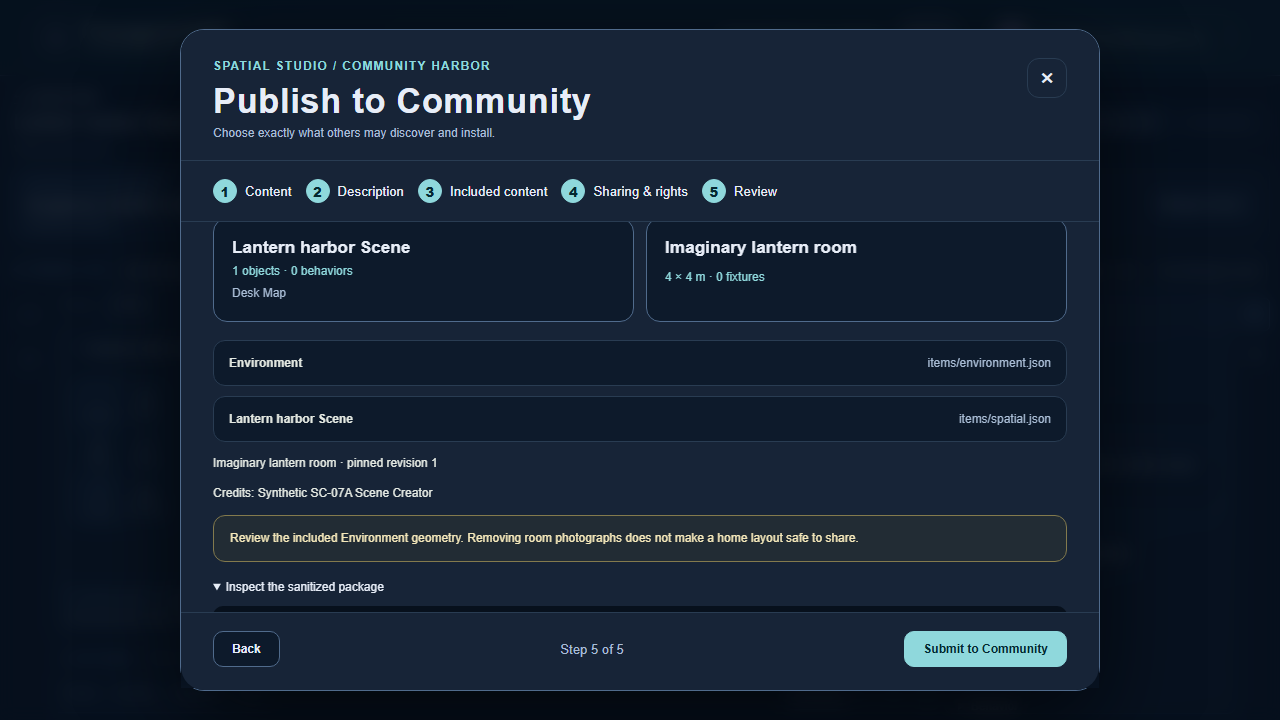
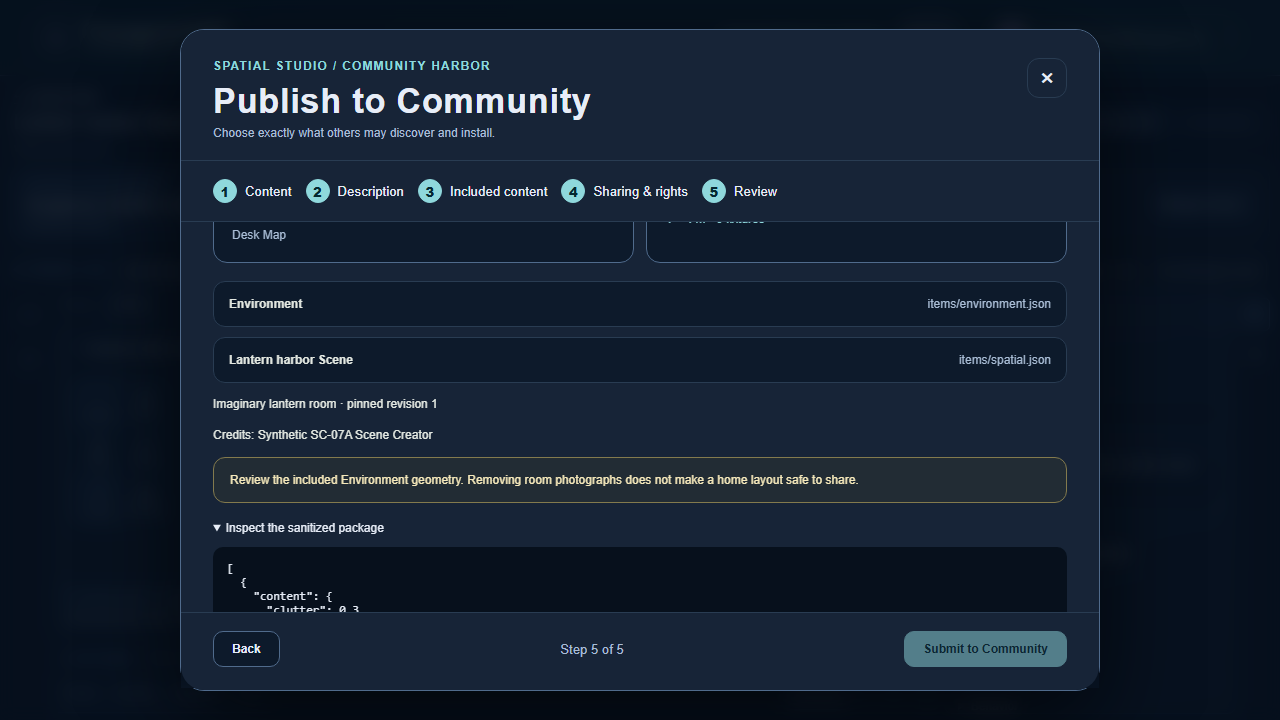
Record SC-07A mobile journey and independent local review

diff --git a/Development_Docs/Projects/Project_Parallax/SC_07A_Direct_Spatial_Community_Publishing.md b/Development_Docs/Projects/Project_Parallax/SC_07A_Direct_Spatial_Community_Publishing.md
@@ -12,7 +12,7 @@ SC-07A connects saved Creator-owned Spatial Studio content to Harborlight listin
 
 ## Creator journey
 
-Spatial Studio exposes one **Publish to Community** workflow from a saved personal item, SC-00C Library details and context actions, Scene Manager and an owned Environment. A source with a known redistribution or privacy limit instead shows **Review publishing limits** and the same workflow explains it before authoritative server review; it is not presented as ready to publish. The guided dialog identifies the exact saved revision, asks for title, description, tags, license, credits and rights acknowledgment, resolves included content on the server, then shows the sanitized package before an explicit submit. A prior listing for the same source can be selected to submit a new immutable release. Saving a draft or creating a Parallax version does not publish it.
+Spatial Studio exposes one **Publish to Community** workflow from a saved personal item, SC-00C Library details and context actions, Scene Manager and an owned Environment. A source with a known redistribution or privacy limit instead shows **Review publishing limits** and the same workflow explains it before authoritative server review; it is not presented as ready to publish. The guided dialog identifies the exact saved revision, asks for title, description, tags, license, credits and rights acknowledgment, resolves included content on the server, then shows the sanitized package before an explicit submit. Its final review puts the immutable-release and moderation consequence above the package preview and requires a separate acknowledgment of the included content, credits, warnings and outcome. Keyboard focus wraps inside the modal. A prior listing for the same source can be selected to submit a new immutable release. Saving a draft or creating a Parallax version does not publish it.
 
 A successful submit creates a Harborlight listing and release in `READY_FOR_REVIEW` or `UPDATE_PENDING`. The result says that moderation is next. An exact retry returns that same release after a lost response; a changed update waits for the pending review to finish. The listing link is usable after the separate moderation authority publishes the release. The Community detail page then offers an exact-release installation review. Installation creates a pinned read-only Spatial Library item and, for a Scene, a pinned local Environment dependency. An editable derivative requires a deliberate separate copy; installed content cannot be republished as Creator-owned source without verified redistribution lineage.
 
@@ -26,8 +26,8 @@ The package uses Harborlight's manifest, checksums and scanner contract. License
 
 ## Validation boundary
 
-Focused package and isolated SQLite integration tests cover private save without publication, preflight, license and dependency rejection, private source-label exclusion, immutable release payloads, Scene and owned Environment packaging, pending moderation, approved exact-release installation, verified-installation review eligibility, stable installation retries and update releases. The browser journeys use a production build, owned loopback server and synthetic accounts. They passed direct Studio publishing, desktop/mobile package review, Escape focus restoration, Community listing, exact-release installation, verified review and read-only Studio return. A known unlicensed physical model displayed **Review publishing limits** instead of **Publish to Community**; server review then refused it on mobile, created no listing and preserved the saved source after reload. A saved Scene journey reviewed and submitted its pinned synthetic Environment as a separate package item; the private photo source label was absent. The refusal is focused and scrolled into view. The direct database transition to `PUBLISHED` is a test fixture for the post-moderation journey, not evidence that moderation approved a real release.
+Focused package and isolated SQLite integration tests cover private save without publication, preflight, license and dependency rejection, private source-label exclusion, immutable release payloads, Scene and owned Environment packaging, pending moderation, approved exact-release installation, verified-installation review eligibility, stable installation retries and update releases. The browser journeys use a production build, owned loopback server and synthetic accounts. They passed direct Studio publishing, all five mobile wizard stages, package JSON keyboard scrolling, forward and reverse Tab containment, Escape focus restoration, Community listing, mobile exact-release installation, verified review and read-only Studio return. The installed Studio status now identifies the release rather than calling it a working draft. A known unlicensed physical model displayed **Review publishing limits** instead of **Publish to Community**; server review then refused it on mobile, created no listing and preserved the saved source after reload. A saved Scene journey reviewed and submitted its pinned synthetic Environment as a separate package item; the private photo source label was absent. The refusal is focused and scrolled into view. The direct database transition to `PUBLISHED` is a test fixture for the post-moderation journey, not evidence that moderation approved a real release.
 
-The [Creator guide](Spatial_Studio_Guide.md) gives the owner-review route. The [local SC-07A run receipt](evidence/sc-07a/20261015-local/run.json) binds the final three passing browser journeys and fourteen captures to candidate source `badeecac`, after integrating SC-00C head `4f658431`. The captures include the [known-limit review](evidence/sc-07a/20261015-local/sc07a-known-limit-desktop.png), [Scene and Environment package](evidence/sc-07a/20261015-local/sc07a-scene-environment-review-desktop.png), [pending-update choice](evidence/sc-07a/20261015-local/sc07a-pending-update-desktop.png) and [focused mobile rights refusal](evidence/sc-07a/20261015-local/sc07a-rights-failure-mobile.png). SC-00C's lossless Environment bridge and its protected acceptance remain independently owned. Independent product experience review, protected Sounding Line and landed-source smoke remain open before claiming those tiers.
+The [Creator guide](Spatial_Studio_Guide.md) gives the owner-review route. The [local SC-07A run receipt](evidence/sc-07a/20261015-local/run.json) binds the final three passing browser journeys and twenty-one captures to candidate source `5ce163b8`, after integrating SC-00C head `4f658431`. The captures include the [known-limit review](evidence/sc-07a/20261015-local/sc07a-known-limit-desktop.png), [mobile final review](evidence/sc-07a/20261015-local/sc07a-package-review-mobile.png), [mobile installation review](evidence/sc-07a/20261015-local/sc07a-installed-review-mobile.png), [mobile installed Studio](evidence/sc-07a/20261015-local/sc07a-installed-library-mobile.png), [Scene and Environment package](evidence/sc-07a/20261015-local/sc07a-scene-environment-review-desktop.png), [pending-update choice](evidence/sc-07a/20261015-local/sc07a-pending-update-desktop.png) and [focused mobile rights refusal](evidence/sc-07a/20261015-local/sc07a-rights-failure-mobile.png). A [separate local visual review](evidence/sc-07a/20261015-local/review.md) records the repaired findings and remaining proof limits. SC-00C's lossless Environment bridge and its protected acceptance remain independently owned. Protected independent product experience review, Sounding Line and landed-source smoke remain open before claiming those tiers.
 
 Feature Catalog: the candidate is not promoted as a completed mainline capability while protected integration and product experience evidence remain open.

diff --git a/Development_Docs/Projects/Project_Parallax/evidence/sc-07a/20261015-local/review.md b/Development_Docs/Projects/Project_Parallax/evidence/sc-07a/20261015-local/review.md
@@ -1,0 +1,25 @@
+---
+title: SC-07A local independent visual review
+audience: product-engineering
+status: local-review
+canonical_for: sc-07a-local-visual-review
+last_reviewed: 2026-10-15
+---
+
+# SC-07A local independent visual review
+
[1 lines of base64/hex data omitted]
+
+| Contract dimension | Read-only observation |
+| --- | --- |
+| Persona and goal | The private saved source appears in [source desktop](sc07a-source-desktop.png); a separate synthetic Creator sees the approved release and exact-install action in [approved listing mobile](sc07a-approved-listing-mobile.png). The test creates two accounts. |
+| Entry | The test follows Creator Library to Spatial Studio, saves, then opens **Publish to Community**; [Library entry](sc07a-library-entry-desktop.png) shows the contextual dialog. |
+| Hierarchy and composition | [Description](sc07a-description-mobile.png), [included content](sc07a-included-mobile.png), [rights](sc07a-rights-mobile.png) and [final review](sc07a-package-review-mobile.png) show the five-step phone journey. The immutable-release warning appears before the package summary and advanced JSON. |
+| Outcomes and adverse states | [Submission](sc07a-submitted-mobile.png) says moderation is next; [pending update](sc07a-pending-update-desktop.png) explains the wait. [Known limit](sc07a-known-limit-desktop.png) and [focused refusal](sc07a-rights-failure-mobile.png) expose the unsupported physical model. The test confirms no listing was created and the private source remained. [Scene package](sc07a-scene-environment-review-desktop.png) names its pinned Environment and warns about room geometry. |
+| Desktop and mobile | The test advances all five wizard stages at 390 px, installs at that width and returns to Studio. Desktop and mobile review captures have distinct filenames. |
+| Keyboard and accessibility | The browser test checks labeled fields, visible refusal focus, Escape focus restoration, Tab and Shift+Tab wrap, package JSON keyboard scrolling and no serious or critical axe violations. This is bounded browser evidence. |
+| Return and continuity | The test returns from submission to Studio, restores the Library trigger after Escape and opens the pinned installed release. [Mobile Studio return](sc07a-installed-library-mobile.png) and [desktop Studio return](sc07a-installed-library-desktop.png) show its read-only state and **Create editable copy** action. |
+
+Initial review findings concerned a final warning below the visible review area, incomplete mobile interaction and keyboard evidence, and an installed status message that called the release a working draft. Follow-up review also found a mislabeled viewport capture and raw license key. The builder repaired those items, recaptured the journey and obtained this re-review. The reviewer reported no remaining P1 or P2 experience finding in the inspected scope.
+
+The approved listing in this local journey uses a synthetic post-moderation database transition. This review does not establish real moderation approval, protected product experience qualification, Sounding Line acceptance, deployment, owner acceptance or physical-device behavior. The protected planner still stops at `PRODUCT_EXPERIENCE_EXPERIENCE_DESIGN_REQUIRED:crossdeck.phase2.continuity:Crossdeck and Parallax experience integration`; the Crossdeck contract remains on draft PR #721.
